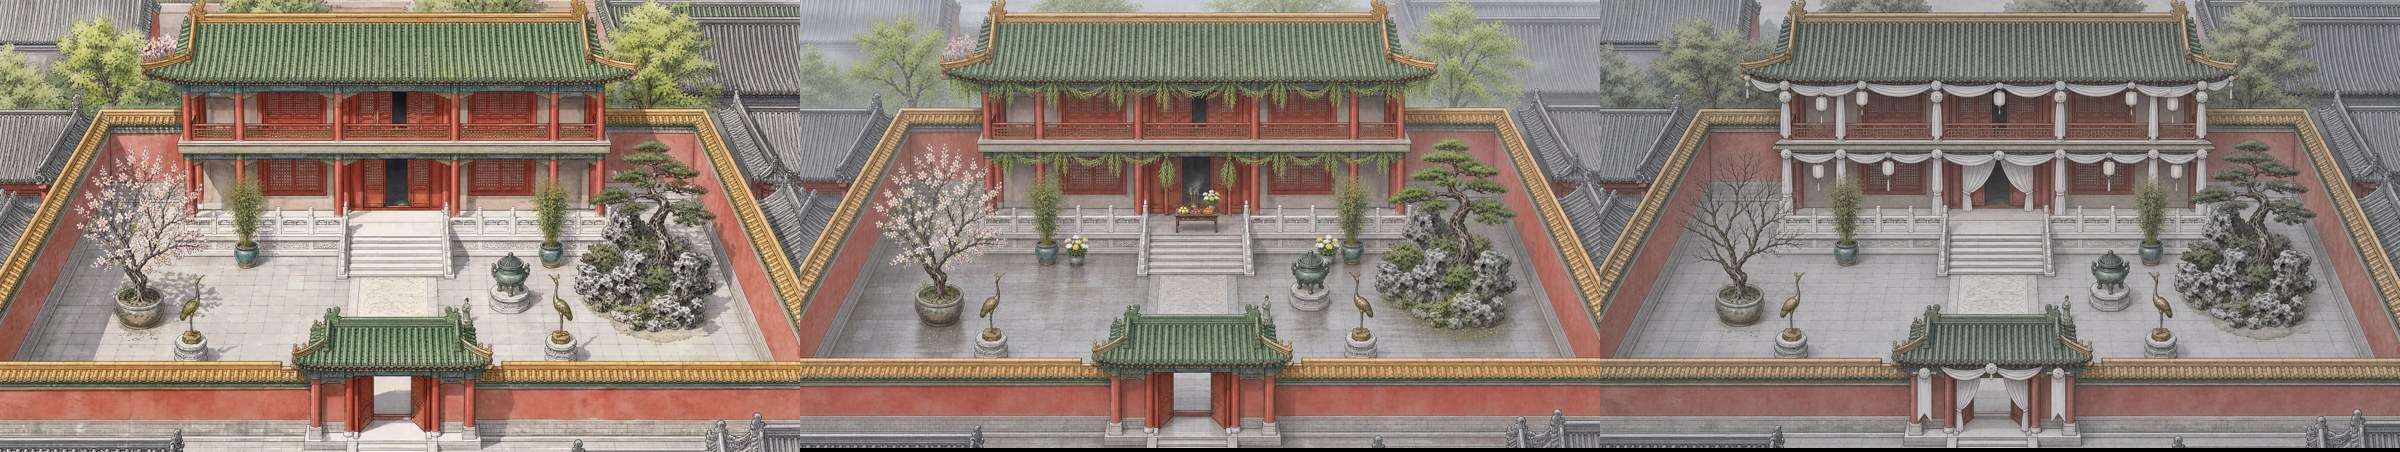
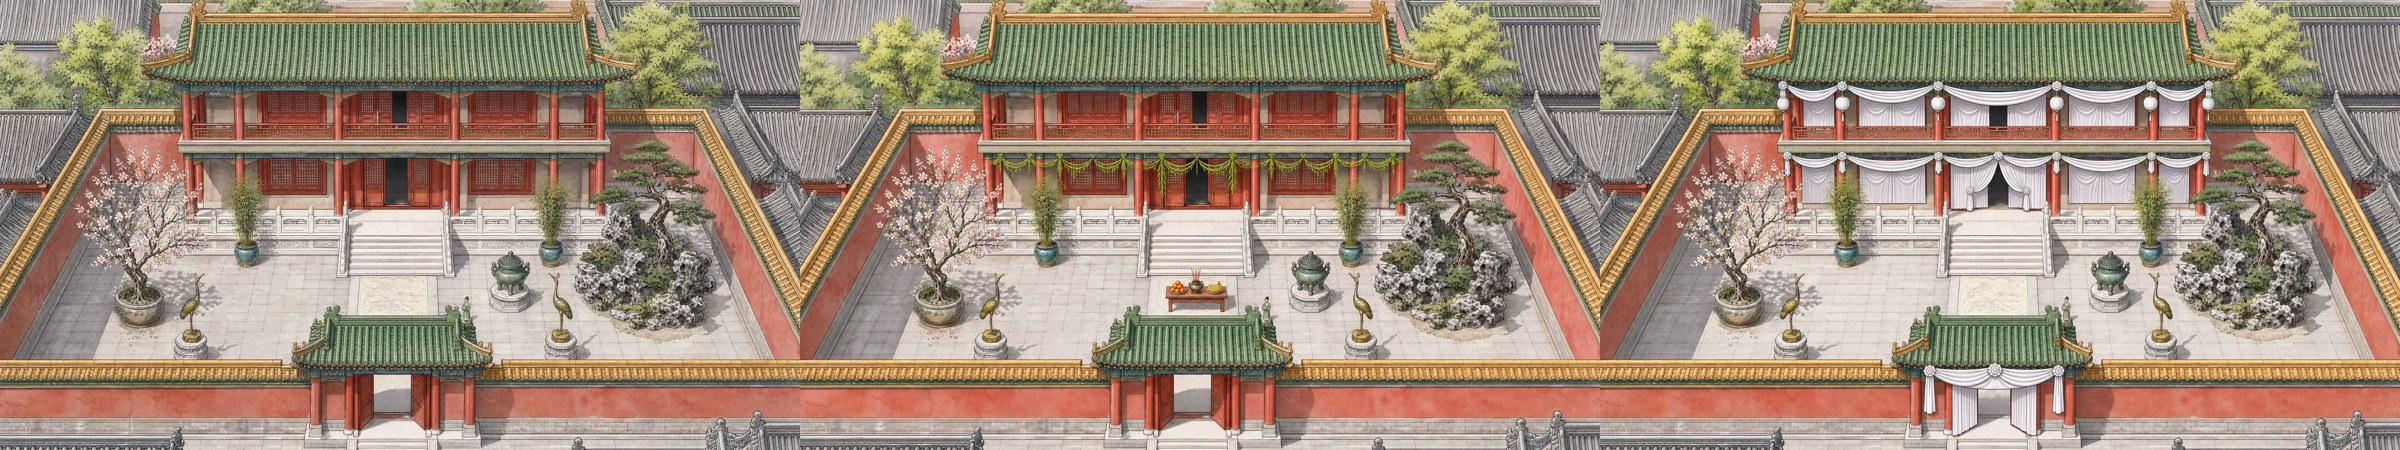
pl-courtyards-art: sample v2 (no weather, same light, decorations only)
Claude-Session: https://claude.ai/code/session_011xDdVPpLX6EsrLyakadqwQ

diff --git a/dev/handover/reports/pl-courtyards-art.md b/dev/handover/reports/pl-courtyards-art.md
@@ -6,3 +6,8 @@ Courtyard: nhat-cac. Sheet: dev/handover/reports/pl-courtyards-art/sample.jpg = 
 Method: gpt-2-6 edit of the existing PL picture (reference = nhat-cac-xuan-sang from CDN); buildings/trees/rocks/cranes/camera unchanged, only dressing changes.
 Self-check: same viewpoint and buildings; thanhminh = pale drizzle light, willow sprigs on eaves, offering table at steps, chrysanthemum pots; tang = white drapes/lanterns on eaves, pillars, gate, grey light, bare blossom tree. No glossy floor, no faces. Output 1344x752 (existing 1792x1013) -> batch will resize to 1792 + webp <=250 KB.
 Waiting for owner verdict via Foreman C. Batch = 299 rows, 6 dirs.
+
+## SAMPLE v2 (after owner rejection: too dark, no weather, no grey, tang = decorations only)
+Sheet = [existing nhat-cac-xuan-sang | NEW thanhminh-sang | NEW tang-sang]. Prompt now forbids rain/mist/overcast/darkening and changes decorations only.
+Mean RGB (448x252): existing 155,136,119; thanhminh 161,138,119; tang 166,149,131 (white cloth adds brightness). Same sky, light, paving, blossom in bloom.
+Thanh minh: willow garland on the lower eaves/doors + offering table with fruit and incense at the steps. Tang: white drapes on eaves and doors, white lanterns, white banner on the gate, red door panels covered.
